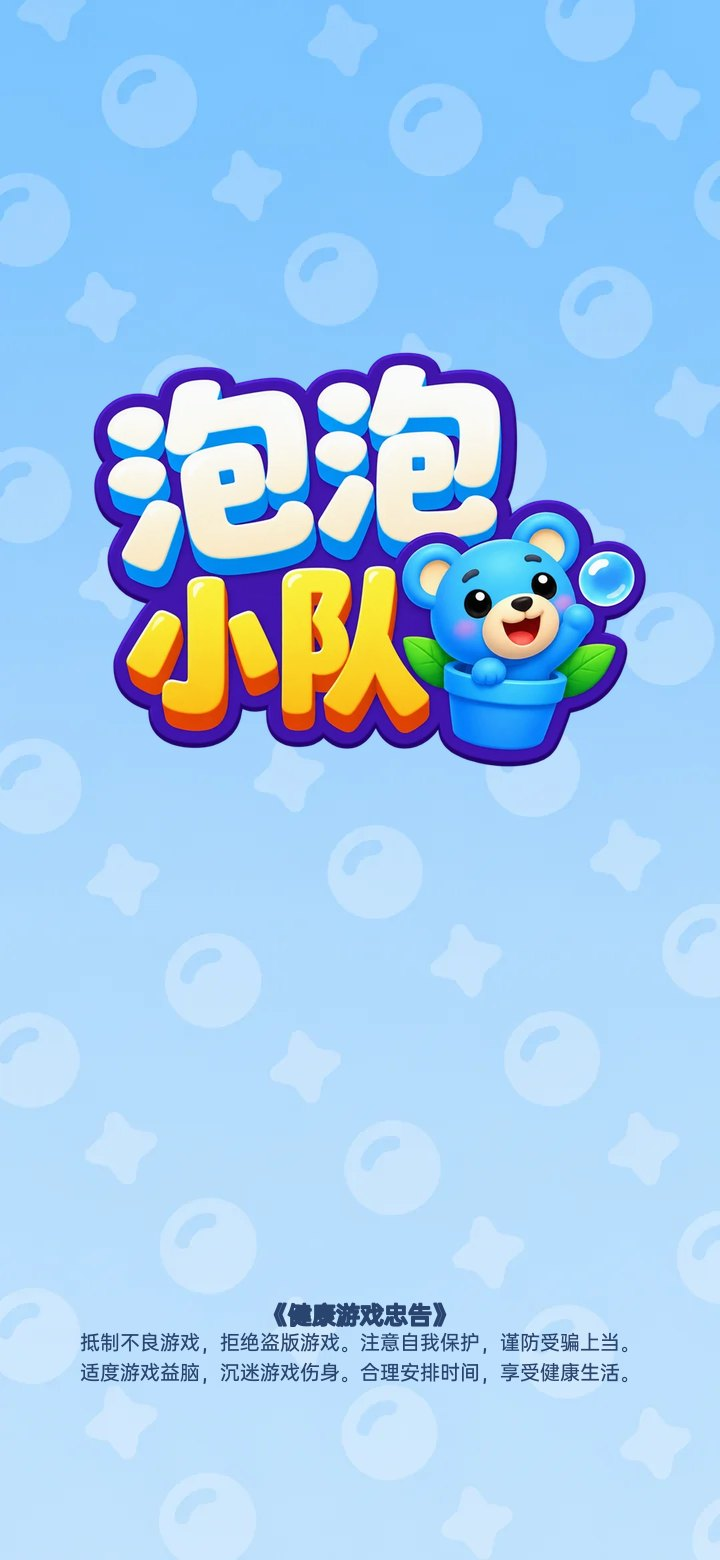
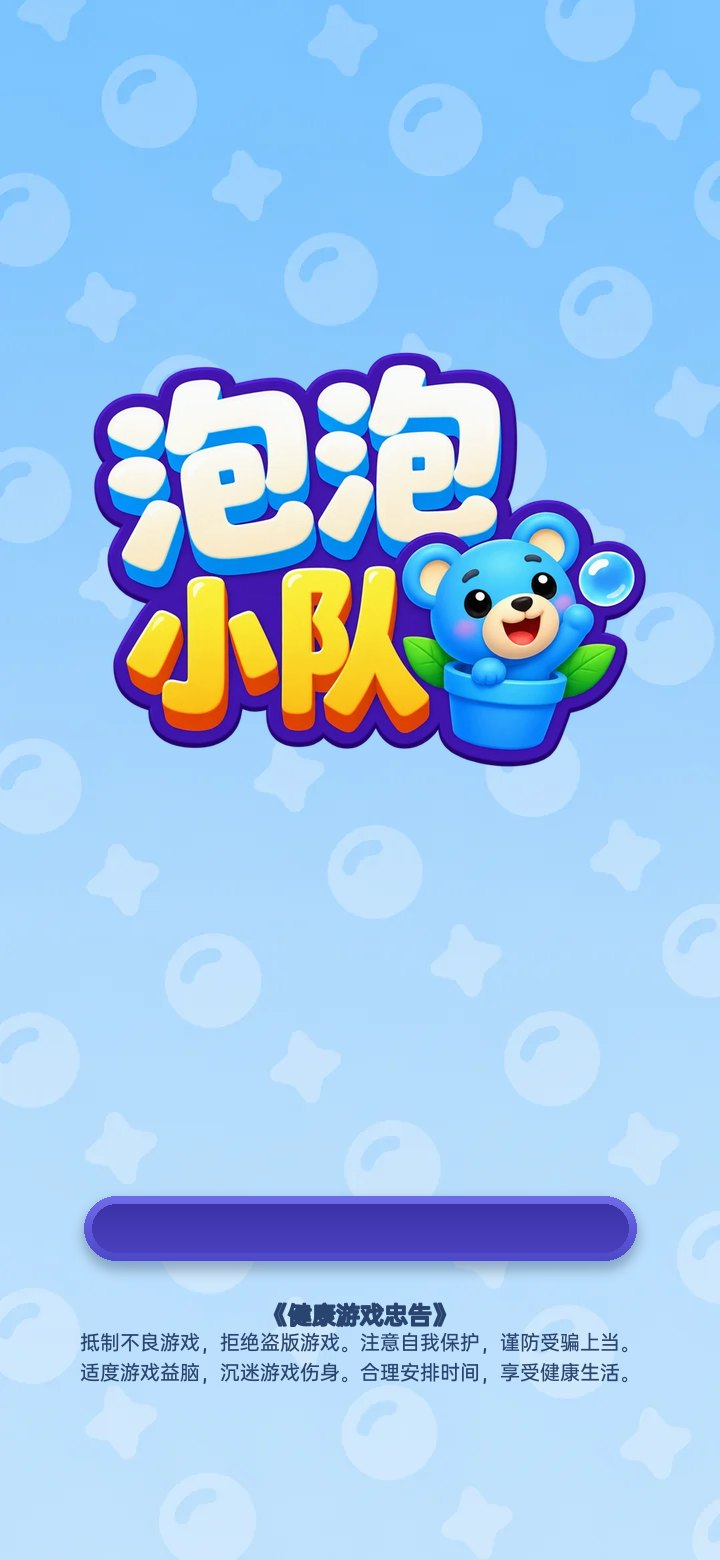
浪加深、暂停按钮右移、抖音加载页进度条底框；抖音无广告位时临时直接发奖
- 推浪：新浪图按 (0.72, 0.86, 1) 染深偏蓝，不透明度 0.42 -> 0.5（连续合并上限 0.7）；旧 repel-gust 不变
- 顶栏（有胶囊时）：暂停按钮和「第x关」右移 12（中心 x 34 -> 46），两位、三位数关卡也不贴屏幕左边；进度条左端 70 -> 82
- 抖音加载页：TTSDK 只画进度和一条很淡的白槽，进度条底框（紫框 + 深紫槽）改画进背景图；
  进度条按背景图的 cover 缩放对准底框，进度改绿色；loading_page.py 可重复执行并替换旧版补丁
- TEMP（待回滚）：DouyinRewardedVideo 在广告位 ID 为空时直接按看完发奖（原为失败）；填入正式 ID 后自动不再生效

Claude-Session: https://claude.ai/code/session_01NNYkDvihUjbXA1onP9dGWD

Changed region(s): [[0.0917, 0.7692, 0.8861, 0.8308]]

diff --git a/platforms/douyin/loading_page.py b/platforms/douyin/loading_page.py
@@ -2,8 +2,8 @@
 
 抖音版不用 WebGL 模板（UnityProject/Assets/WebGLTemplates/Flightbeat/index.html）的网页加载页，
 而是 TTSDK 自带的加载页（粉色背景 + Unity 图标）。这里换成和 WebGL 加载页一样的画面：
-气泡背景 + 「泡泡小队」字标 + 健康游戏忠告（一张图，loading/loading-background.jpg），
-加上紫色进度条和状态文字（TTSDK loadingPageConfig）。TTSDK 加载页只能放静态背景、进度条和一行文字，
+气泡背景 + 「泡泡小队」字标 + 进度条的紫色底框 + 健康游戏忠告（一张图，loading/loading-background.jpg），
+加上绿色进度和状态文字（TTSDK loadingPageConfig，按背景图的缩放对准底框）。TTSDK 加载页只能放静态背景、进度条和一行文字，
 字标的浮动动画做不了。
 
     python3 platforms/douyin/loading_page.py Builds/DouyinPreview/tt-minigame
@@ -18,19 +18,23 @@ HERE = Path(__file__).resolve().parent
 IMAGE = "images/flightbeat-loading.jpg"
 MARK = "// 泡泡小队加载页"
 ANCHOR = "const gameManager = new UnityManager("
-PATCH = MARK + """（platforms/douyin/loading_page.py，与 WebGL 加载页一致）：背景图里已有字标和健康游戏忠告。
+# The background (720 x 1560) is laid over the screen like CSS "cover"; the bar's frame and groove are painted in it
+# (groove x 92-628, y 1204-1252), so TTSDK's bar is placed on the groove with the same mapping. TTSDK draws only the
+# fill in barConfig backgroundColor and a faint white lane, which could not be seen on the light page (2026-11-08 22:06).
+PATCH = MARK + """（platforms/douyin/loading_page.py，与 WebGL 加载页一致）：背景图里已有字标、进度条底框和健康游戏忠告。
   (function (c, w, h) {
+    var k = Math.max(w / 720, h / 1560), ox = (w - 720 * k) / 2, oy = (h - 1560 * k) / 2;
     c.designWidth = 0; c.designHeight = 0;
     c.materialConfig.backgroundImage = '""" + IMAGE + """';
     c.iconConfig.visible = false;
     var t = c.textConfig;
     t.firstStartText = '首次加载请耐心等待'; t.downloadingText = ['加载中…'];
     t.compilingText = '准备中…'; t.initText = '准备中…'; t.completeText = '加载完成，出发！';
-    var barH = Math.round(w * .055), barB = Math.round(h * .2);
-    c.barConfig.style = Object.assign({}, c.barConfig.style, { width: Math.round(w * .75), height: barH,
-      padding: Math.max(2, Math.round(w * .008)), bottom: barB, backgroundColor: '#4d48c9' });
+    var barH = Math.round(48 * k), barB = Math.round(h - (oy + 1252 * k));
+    c.barConfig.style = Object.assign({}, c.barConfig.style, { width: Math.round(536 * k), height: barH,
+      padding: Math.max(2, Math.round(4 * k)), bottom: barB, backgroundColor: '#2fc23e' });
     t.style = Object.assign({}, t.style, { width: Math.round(w * .8), height: Math.round(w * .05),
-      bottom: barB + barH + Math.round(w * .02), fontSize: Math.round(w * .04), color: '#3f248a' });
+      bottom: Math.round(h - (oy + 1196 * k)) + Math.round(w * .02), fontSize: Math.round(w * .04), color: '#3f248a' });
   })(managerConfig.loadingPageConfig, info.screenWidth, info.screenHeight);
 
   """
@@ -40,11 +44,11 @@ def apply(game):
     game = Path(game)
     script = game / "game.js"
     text = script.read_text(encoding="utf-8")
-    if MARK not in text:
-        if text.count(ANCHOR) != 1:
-            raise ValueError(f"{script} 里找不到 TTSDK 的 UnityManager 创建语句，加载页没有替换")
-        text = text.replace(ANCHOR, PATCH + ANCHOR)
-        script.write_text(text, encoding="utf-8")
+    if text.count(ANCHOR) != 1:
+        raise ValueError(f"{script} 里找不到 TTSDK 的 UnityManager 创建语句，加载页没有替换")
+    if MARK in text:   # an earlier version of the patch: replace it
+        text = text[:text.index(MARK)] + text[text.index(ANCHOR):]
+    script.write_text(text.replace(ANCHOR, PATCH + ANCHOR), encoding="utf-8")
     (game / "images").mkdir(exist_ok=True)
     shutil.copyfile(HERE / "loading" / "loading-background.jpg", game / IMAGE)
 

diff --git a/UnityProject/Assets/Flightbeat/Garden/CombatFeedback.Garden.cs b/UnityProject/Assets/Flightbeat/Garden/CombatFeedback.Garden.cs
@@ -820,13 +820,17 @@ namespace Flightbeat.Feedback
         // One gust (merges and spent members alike; `boost` grows with the gusts it took over). Its crest starts at the
         // field's lowest bead and rushes 40 px (x boost) up into it, three quarters of the way in the first third of its .7 s;
         // it fades in over .06 s and out with the rise; at most ~.5 opacity (the old strip was .65 and slid up evenly).
+        static readonly Color PushWaveTint = new Color(.72f, .86f, 1f, 1f);
         void DrawGardenGust(PixelSurface s, Wave w, float fieldBottom, float boost) {
             float t = Mathf.Clamp01(w.age / w.duration), rise = 1f - (1f - t) * (1f - t) * (1f - t);
-            float alpha = Mathf.Min(.6f, .42f * boost) * Mathf.Clamp01(t / .06f) * (1f - t);
+            // 2026-11-08 18:03 (user: the wave a little deeper, picked B): the painted wave is tinted deeper and bluer
+            // (PushWaveTint) and drawn at .5 (was .42); the old repel-gust fallback keeps .42 and white.
+            bool painted = GardenSkin.Has("plants/fx/push-wave-0");
+            float alpha = Mathf.Min(.7f, (painted ? .5f : .42f) * boost) * Mathf.Clamp01(t / .06f) * (1f - t);
             if (alpha <= .01f) return;
             var p = GardenPushOf(w);
             float side = (p.seed & 1) == 0 ? 1f : -1f, lift = rise * 40f * boost;
-            if (GardenSkin.Has("plants/fx/push-wave-0")) {
+            if (painted) {
                 // 1080 x 180 tiles drawn 540 x 90, crest line at canvas y 40 (20 px down): two copies scroll sideways.
                 const float tw = 540f, th = 90f;
                 float top = fieldBottom + 4f - 20f - lift;
@@ -836,8 +840,8 @@ namespace Flightbeat.Feedback
                 float mix = stage - i0;
                 for (int k = 0; k < 2; k++) {
                     float x = -scroll + k * tw;
-                    GardenSkin.Asset(s, "plants/fx/push-wave-" + i0, x, top, tw, th, new Color(1f, 1f, 1f, alpha * (1f - mix)));
-                    if (mix > .01f) GardenSkin.Asset(s, "plants/fx/push-wave-" + (i0 + 1), x, top, tw, th, new Color(1f, 1f, 1f, alpha * mix));
+                    GardenSkin.Asset(s, "plants/fx/push-wave-" + i0, x, top, tw, th, new Color(PushWaveTint.r, PushWaveTint.g, PushWaveTint.b, alpha * (1f - mix)));
+                    if (mix > .01f) GardenSkin.Asset(s, "plants/fx/push-wave-" + (i0 + 1), x, top, tw, th, new Color(PushWaveTint.r, PushWaveTint.g, PushWaveTint.b, alpha * mix));
                 }
                 return;
             }

diff --git a/UnityProject/Assets/Flightbeat/Garden/UI/GardenBattlePage.cs b/UnityProject/Assets/Flightbeat/Garden/UI/GardenBattlePage.cs
@@ -423,13 +423,15 @@ namespace Flightbeat.Garden.UI
         // with the capsule. 2026-11-07 17:26 (user: the row was too crowded - pause, 第x关 plaque, a short bar, then the
         // platform's buttons; the user's own plan): with a capsule, 第x关 is a small label above the pause button (in the
         // status-bar height left above the capsule's row) and its plaque is hidden, so the progress bar takes the plaque's
-        // place - from x 66 (70 since the pause button grew) to 10 px left of the capsule; frame, groove, shade and fill stretch, the percent stays at the
+        // place - from x 66 (82 since the pause button grew and moved right) to 10 px left of the capsule; frame, groove, shade and fill stretch, the percent stays at the
         // frame's right end. Without a capsule the row is as authored (there may be no room above the pause button).
         static readonly string[] HeaderParts = { "Progress frame", "Progress track", "Progress track shade", "Progress fill",
             "Progress percent", "Level plaque", "Level title", "Pause button" };
         // 2026-11-08 12:09 (user: on Douyin the pause button 20 % bigger): with a capsule the 44 px button is drawn at 1.2x
         // about its centre (34, 28); hits follow the scale. 第x关 and the progress bar make room for it.
-        const float PauseScale = 1.2f, PauseCx = 34f, PauseCy = 28f, PauseHalf = 22f;
+        // 18:58 (user: 第x关 hugged the screen's left edge - a two-digit 「第 12 关」 came within ~1 px; option 3): the button
+        // and its label move 12 px right (centre x 34 -> 46), so even 「第 100 关」 keeps ~8 px; the bar starts 12 px later.
+        const float PauseScale = 1.2f, PauseCx = 46f, PauseCy = 28f, PauseHalf = 22f;
         const float FrameX = 190f, FrameW = 330f;   // the progress frame as authored (GardenBattleUiAssets.Header)
         void FitProgressRow(float menuLeft)
         {
@@ -446,7 +448,7 @@ namespace Flightbeat.Garden.UI
             }
             if (!progressParts[0]) return;
             bool capsule = menuLeft < 9999f;
-            float frameX = capsule ? 70f : FrameX, right = capsule ? Mathf.Min(FrameX + FrameW, menuLeft - 10f) : FrameX + FrameW;
+            float frameX = capsule ? 82f : FrameX, right = capsule ? Mathf.Min(FrameX + FrameW, menuLeft - 10f) : FrameX + FrameW;
             float shift = frameX - FrameX, grow = Mathf.Max(right - frameX, 190f) - FrameW;
             for (int i = 0; i < HeaderParts.Length; i++)
             {

diff --git a/platforms/douyin/DouyinRewardedVideo.cs b/platforms/douyin/DouyinRewardedVideo.cs
@@ -60,8 +60,11 @@ internal static class DouyinRewardedVideo
     {
         if (string.IsNullOrWhiteSpace(AdService.UnitId))
         {
-            Debug.LogWarning("Missing Douyin rewarded video ad unit ID.");
-            complete(false);
+            // TEMP 2026-11-08 (user: no ad unit ID yet; rewards should still be testable; to be reverted): without an ad
+            // unit ID the reward is granted at once, as if the video had been watched. Was: complete(false) (广告未完成).
+            // Revert this block once Assets/Resources/DouyinRewardedAd.txt holds the real ID.
+            Debug.LogWarning("Missing Douyin rewarded video ad unit ID: TEMP granting the reward without a video.");
+            complete(true);
             return;
         }
         current = new Request(complete);

diff --git a/platforms/douyin/README.md b/platforms/douyin/README.md
@@ -26,7 +26,7 @@ python3 platforms/douyin/prepare.py --output Builds/DouyinUnity
 
 ## 加载页
 
-抖音版不走 WebGL 模板里的网页加载页，用的是 TTSDK 自带的加载页（默认是粉色背景加 Unity 图标）。`loading_page.py` 把它换成和 WebGL 加载页一样的画面：气泡背景、「泡泡小队」字标和健康游戏忠告合成一张背景图（`loading/loading-background.jpg`），再配紫色进度条和状态文字。TTSDK 加载页只支持静态背景、进度条和一行文字，字标的浮动动画做不了。
+抖音版不走 WebGL 模板里的网页加载页，用的是 TTSDK 自带的加载页（默认是粉色背景加 Unity 图标）。`loading_page.py` 把它换成和 WebGL 加载页一样的画面：气泡背景、「泡泡小队」字标、进度条的紫色底框和健康游戏忠告合成一张背景图（`loading/loading-background.jpg`），再配绿色进度和状态文字；TTSDK 只画进度本身和一条很淡的白色槽，所以底框画在背景图里，进度条按背景图的缩放对准它。TTSDK 加载页只支持静态背景、进度条和一行文字，字标的浮动动画做不了。
 
 `preview.command` 导出后会自动执行。用 TTSDK 面板正式导出后，也要对导出的 `tt-minigame` 目录执行一次（可重复执行）：
 
